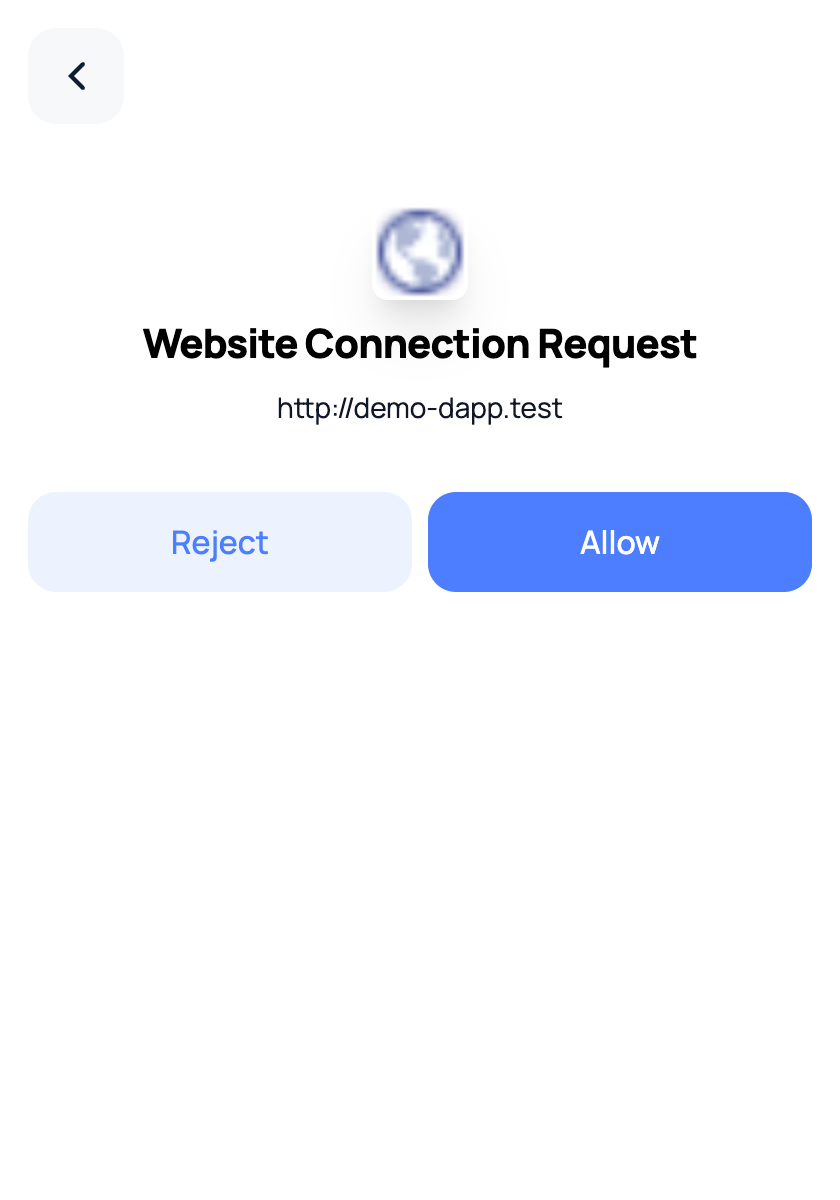
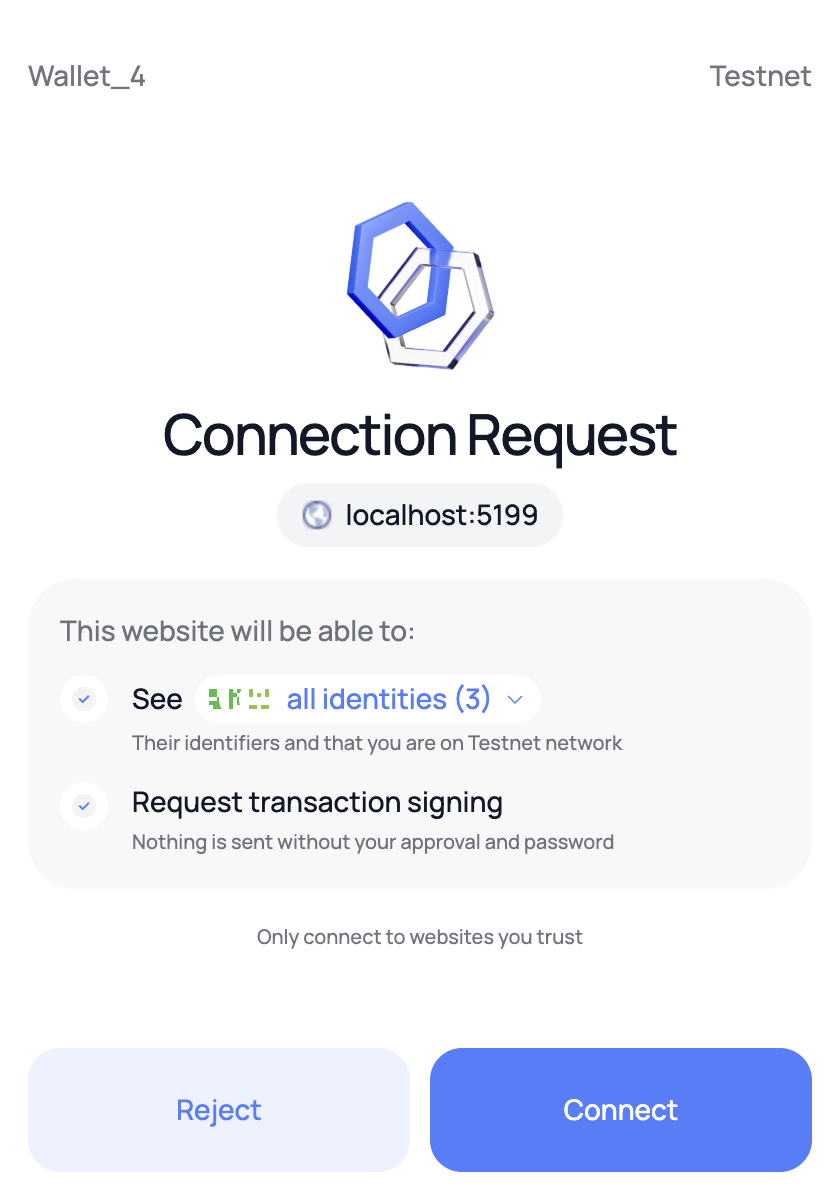
Update screenshots

diff --git a/README.md b/README.md
@@ -58,7 +58,7 @@
   </tr>
   <tr>
     <td align="center"><img src="public/img/screenshots/send.png" alt="Send screen" width="260"><br><sub><b>Send between layers</b></sub></td>
-    <td align="center"><img src="public/img/screenshots/connect.png" alt="Website connection request" width="260"><br><sub><b>Website permissions</b></sub></td>
+    <td align="center"><img src="public/img/screenshots/connect.png" alt="Connection request from a website, listing the identities it may see" width="260"><br><sub><b>Connection requests</b></sub></td>
     <td align="center"><img src="public/img/screenshots/approve-details.png" alt="Decoded transaction details" width="260"><br><sub><b>Decoded approvals</b></sub></td>
   </tr>
 </table>
